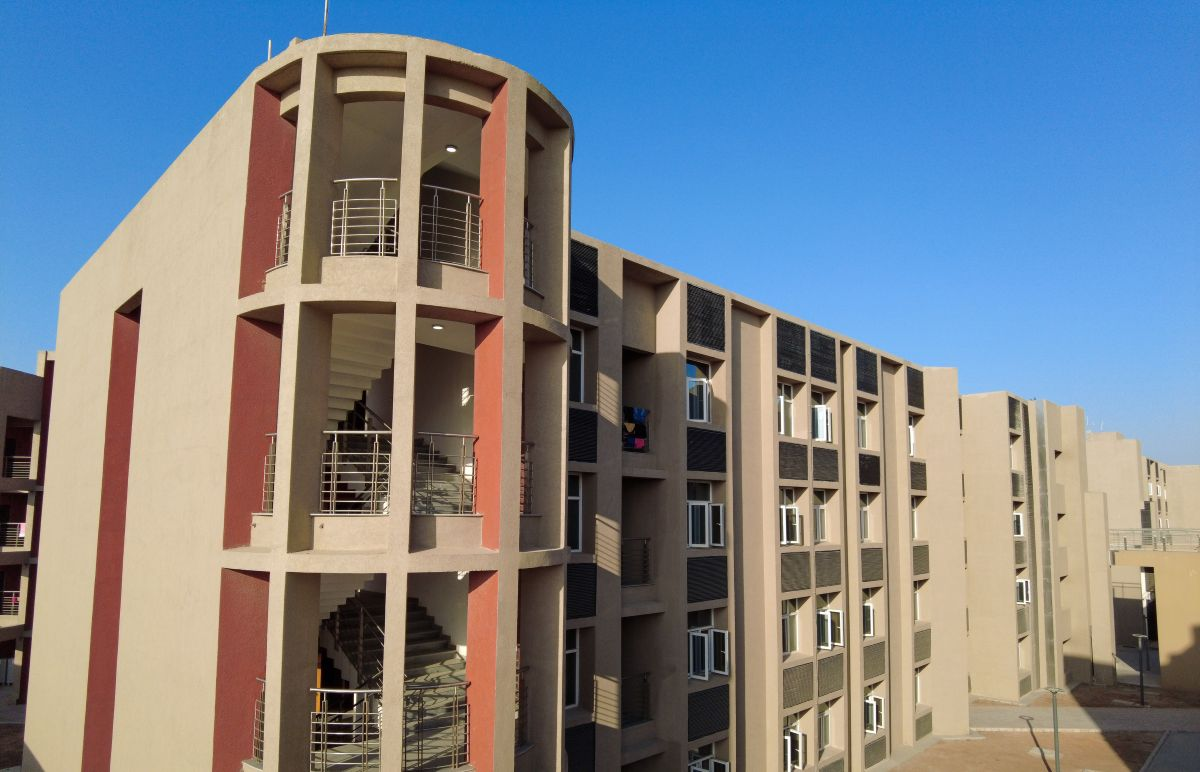
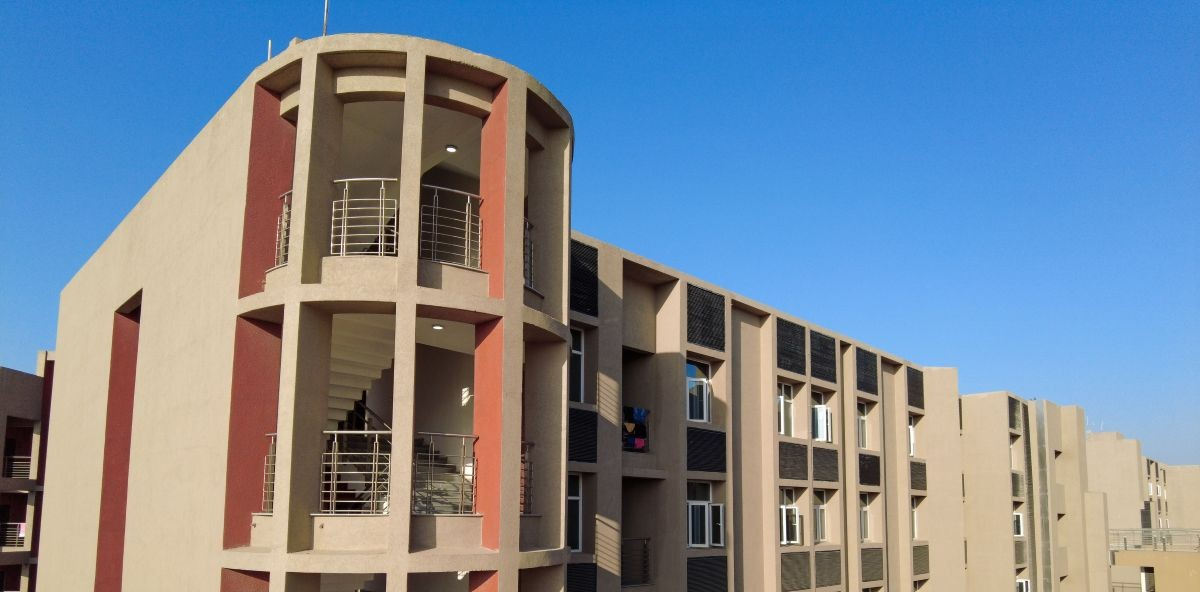
Menu only on top of the page

diff --git a/dining.html b/dining.html
@@ -172,13 +172,7 @@
                                     </p>
                                 </div>
                                 <div class="card__bottom text-center">
-                                    <a class="btn btn--sm btn-light type--uppercase"
-                                        href="https://docs.google.com/spreadsheets/d/1lIM8DgEdONulmk4HakfCULpkoc9OoVHY5Ju2a8J_JUs/edit?gid=603791646#gid=603791646"
-                                        target="_blank">
-                                        <span class="btn__text">
-                                            Menu <i class="material-icons" style="font-size: 16px;">arrow_outward</i>
-                                        </span>
-                                    </a>
+                                    
                                 </div>
                             </div>
                         </div>
